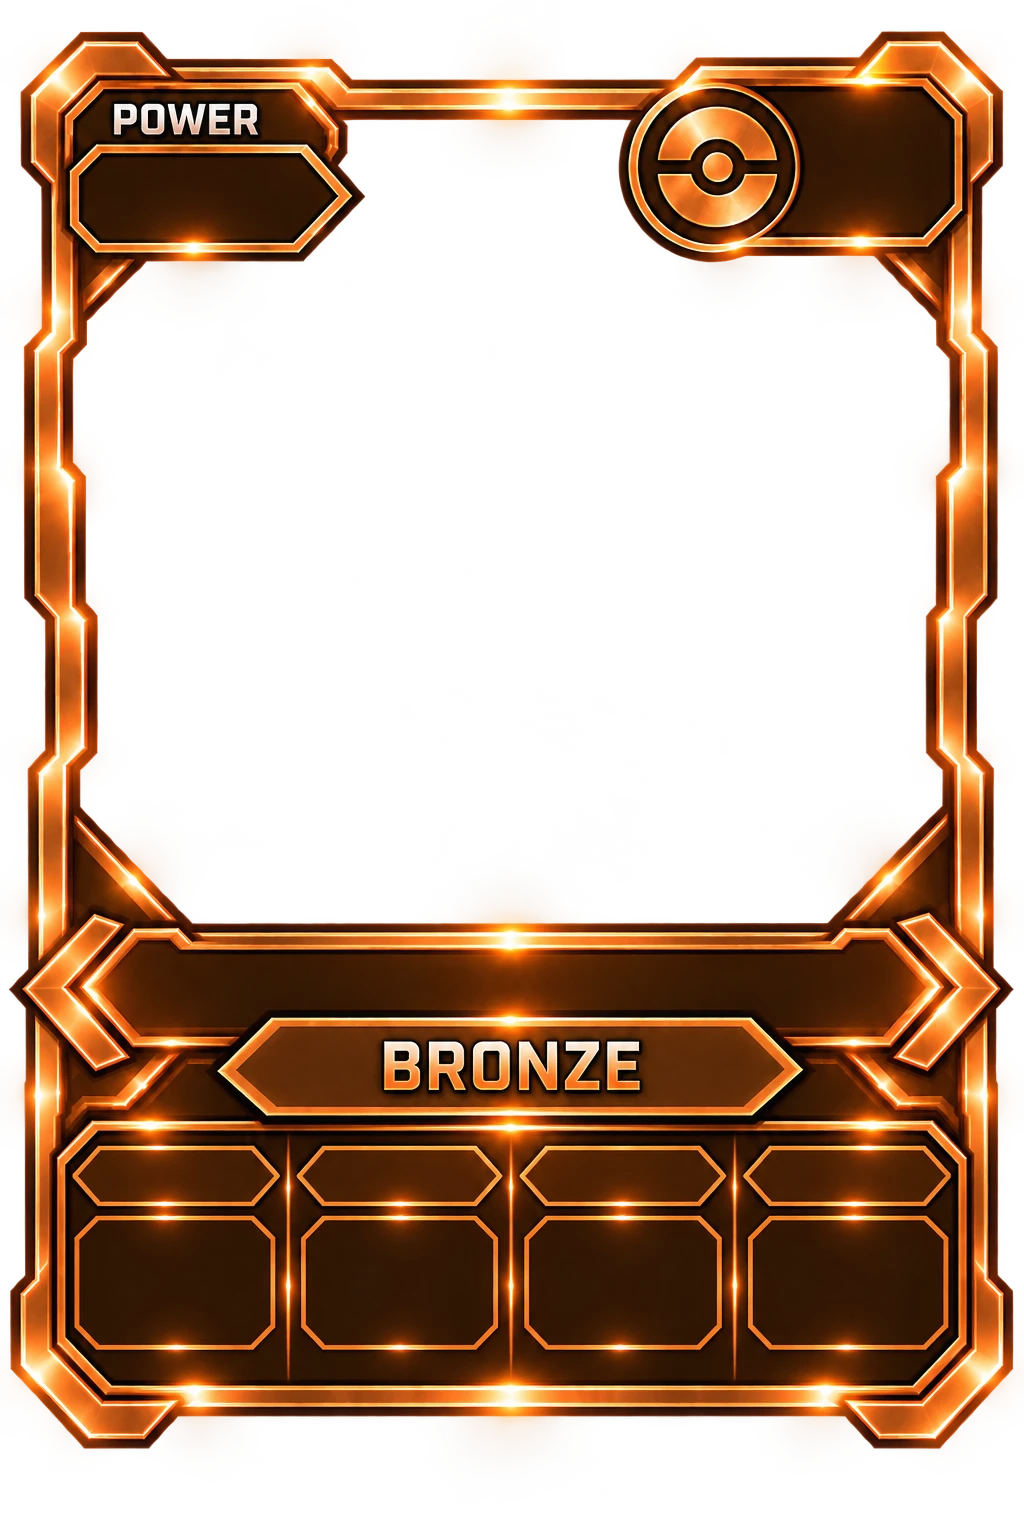
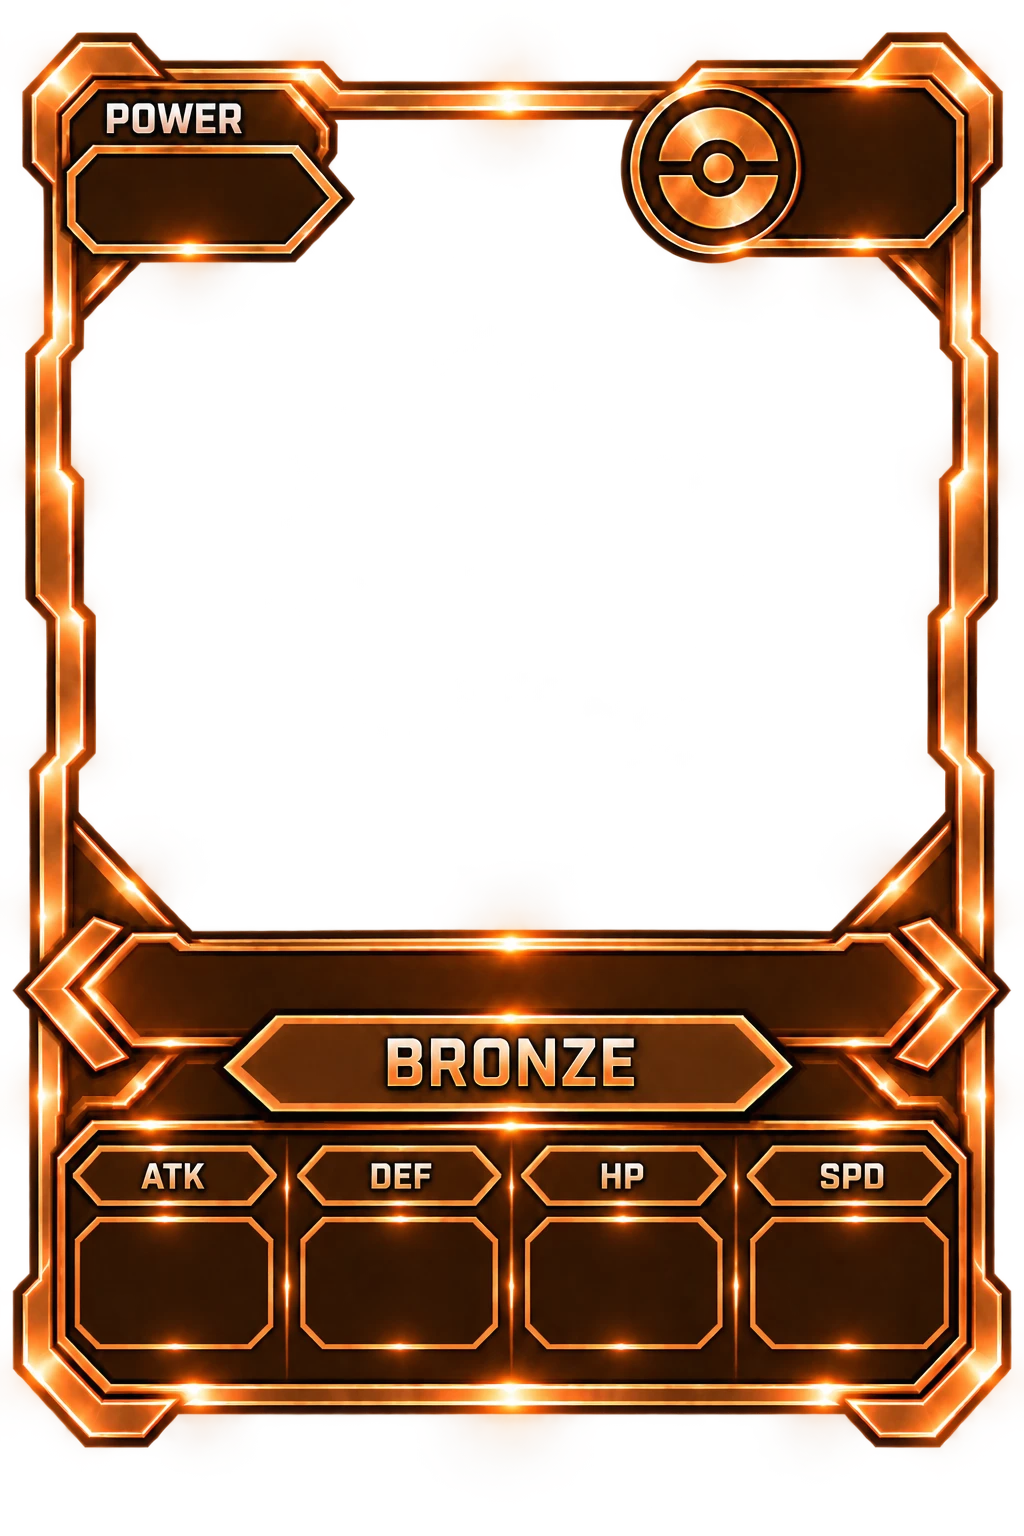
Feat: bronze frame v3 (labels baked in) + simplified stat overlay
- Replace bronze.webp with new frame that has ATK/DEF/HP/SPD labels
  baked into the artwork — no need to overlay label text
- PokemonStatCard: render only the 4 stat numbers (no label row)
- BrawlCardLayout: collapse back to statsTop/statsHeight (two fields)
  with defaults tuned for the new frame (84%/12%)
- Admin panel: two sliders (Stats Row Top %, Stats Row Height %)
- Store bronze.webp as real git blob (not LFS) for Railway

Changed region(s): [[0.0, 0.0, 1.0, 0.9375]]

diff --git a/src/admin/BrawlCardLayoutTab.tsx b/src/admin/BrawlCardLayoutTab.tsx
@@ -63,25 +63,18 @@ export function BrawlCardLayoutTab({ showToast }: { showToast: (m: string, ok?: 
         <SliderRow label="Frame Scale" sub="How much the card frame fills its cell (default 1.16)"
           value={draft.scale} min={1.0} max={1.6} step={0.01} onChange={set('scale')} />
 
-        <SliderRow label="Label Row Top %" sub="Top % where ATK/DEF/HP/SPD labels start (default 80)"
-          value={draft.statsLabelTop} min={70} max={92} step={0.5} onChange={set('statsLabelTop')} />
+        <SliderRow label="Stats Row Top %" sub="Top % where the stat numbers start (default 84)"
+          value={draft.statsTop} min={74} max={95} step={0.5} onChange={set('statsTop')} />
 
-        <SliderRow label="Label Row Height %" sub="Height % of the label boxes (default 6)"
-          value={draft.statsLabelHeight} min={3} max={12} step={0.5} onChange={set('statsLabelHeight')} />
-
-        <SliderRow label="Value Row Top %" sub="Top % where the stat numbers start (default 87)"
-          value={draft.statsValueTop} min={74} max={95} step={0.5} onChange={set('statsValueTop')} />
-
-        <SliderRow label="Value Row Height %" sub="Height % of the stat number boxes (default 10)"
-          value={draft.statsValueHeight} min={4} max={18} step={0.5} onChange={set('statsValueHeight')} />
+        <SliderRow label="Stats Row Height %" sub="Height % of the number boxes (default 12)"
+          value={draft.statsHeight} min={5} max={20} step={0.5} onChange={set('statsHeight')} />
 
         <SliderRow label="Team Grid Columns" sub="Cards per row in Active Team on desktop (default 4)"
           value={draft.teamCols} min={3} max={6} step={1} onChange={set('teamCols')} />
 
         <div className="mt-4 p-3 rounded-xl bg-white/5 border border-white/10 text-[11px] text-white/40 space-y-1">
           <p>Changes apply site-wide immediately after Save.</p>
-          <p>Label Row: align to the small label boxes baked into the frame art (ATK/DEF/HP/SPD).</p>
-          <p>Value Row: align to the larger number boxes directly below them.</p>
+          <p>Stats Row: align the numbers to the large value boxes in the frame art (ATK/DEF/HP/SPD labels are baked in above them).</p>
           <p>Frame Scale: pushes the frame border to card edges. Below 1.0 shows transparent glow margins.</p>
         </div>
       </div>

diff --git a/src/pages/brawl/PokemonStatCard.tsx b/src/pages/brawl/PokemonStatCard.tsx
@@ -59,8 +59,7 @@ export function PokemonStatCard({ mon, selected, order, index, onClick, nickname
   layout?: Partial<BrawlCardLayout>;
 }) {
   const layout = { ...DEFAULT_BRAWL_CARD_LAYOUT, ...layoutProp };
-  const statsLabelLayout = { top: `${layout.statsLabelTop}%`, left: '8.5%', width: '83%', height: `${layout.statsLabelHeight}%` };
-  const statsValueLayout = { top: `${layout.statsValueTop}%`, left: '8.5%', width: '83%', height: `${layout.statsValueHeight}%` };
+  const statsLayout = { top: `${layout.statsTop}%`, left: '8.5%', width: '83%', height: `${layout.statsHeight}%` };
   const tier = getCardTier(mon);
   const accent = TIER_ACCENT[tier];
   const isLegendary = tier === 'legendary';
@@ -127,14 +126,7 @@ export function PokemonStatCard({ mon, selected, order, index, onClick, nickname
             )}
           </div>
 
-          <div className="absolute grid grid-cols-4" style={{ ...statsLabelLayout, zIndex: 3 }}>
-            {(['ATK', 'DEF', 'HP', 'SPD'] as const).map(label => (
-              <div key={label} className="flex items-center justify-center">
-                <div className="text-[7px] sm:text-[8px] font-extrabold uppercase tracking-wide leading-none" style={{ color: accent }}>{label}</div>
-              </div>
-            ))}
-          </div>
-          <div className="absolute grid grid-cols-4" style={{ ...statsValueLayout, zIndex: 3 }}>
+          <div className="absolute grid grid-cols-4" style={{ ...statsLayout, zIndex: 3 }}>
             {[mon.base_attack, mon.base_defense, mon.base_hp, mon.base_speed].map((val, i) => (
               <div key={i} className="flex items-center justify-center">
                 <div className="text-[11px] sm:text-sm font-black leading-none text-white">{val}</div>

diff --git a/src/hooks/useSiteConfig.ts b/src/hooks/useSiteConfig.ts
@@ -106,24 +106,18 @@ export function useLoadingScreenConfig() {
 export interface BrawlCardLayout {
   /** scale(N) applied to the frame group — pushes border to card edges. Default 1.16 */
   scale: number;
-  /** Top % for the stat label boxes (ATK/DEF/HP/SPD text). Default 80 */
-  statsLabelTop: number;
-  /** Height % of the stat label boxes. Default 6 */
-  statsLabelHeight: number;
-  /** Top % for the stat value boxes (numbers). Default 87 */
-  statsValueTop: number;
-  /** Height % of the stat value boxes. Default 10 */
-  statsValueHeight: number;
+  /** Top % where the stat numbers start (labels are baked into the frame art). Default 84 */
+  statsTop: number;
+  /** Height % of the stat number boxes. Default 12 */
+  statsHeight: number;
   /** grid columns for active team grid on lg+ screens. Default 4 */
   teamCols: number;
 }
 
 export const DEFAULT_BRAWL_CARD_LAYOUT: BrawlCardLayout = {
   scale: 1.16,
-  statsLabelTop: 80,
-  statsLabelHeight: 6,
-  statsValueTop: 87,
-  statsValueHeight: 10,
+  statsTop: 84,
+  statsHeight: 12,
   teamCols: 4,
 };
 
